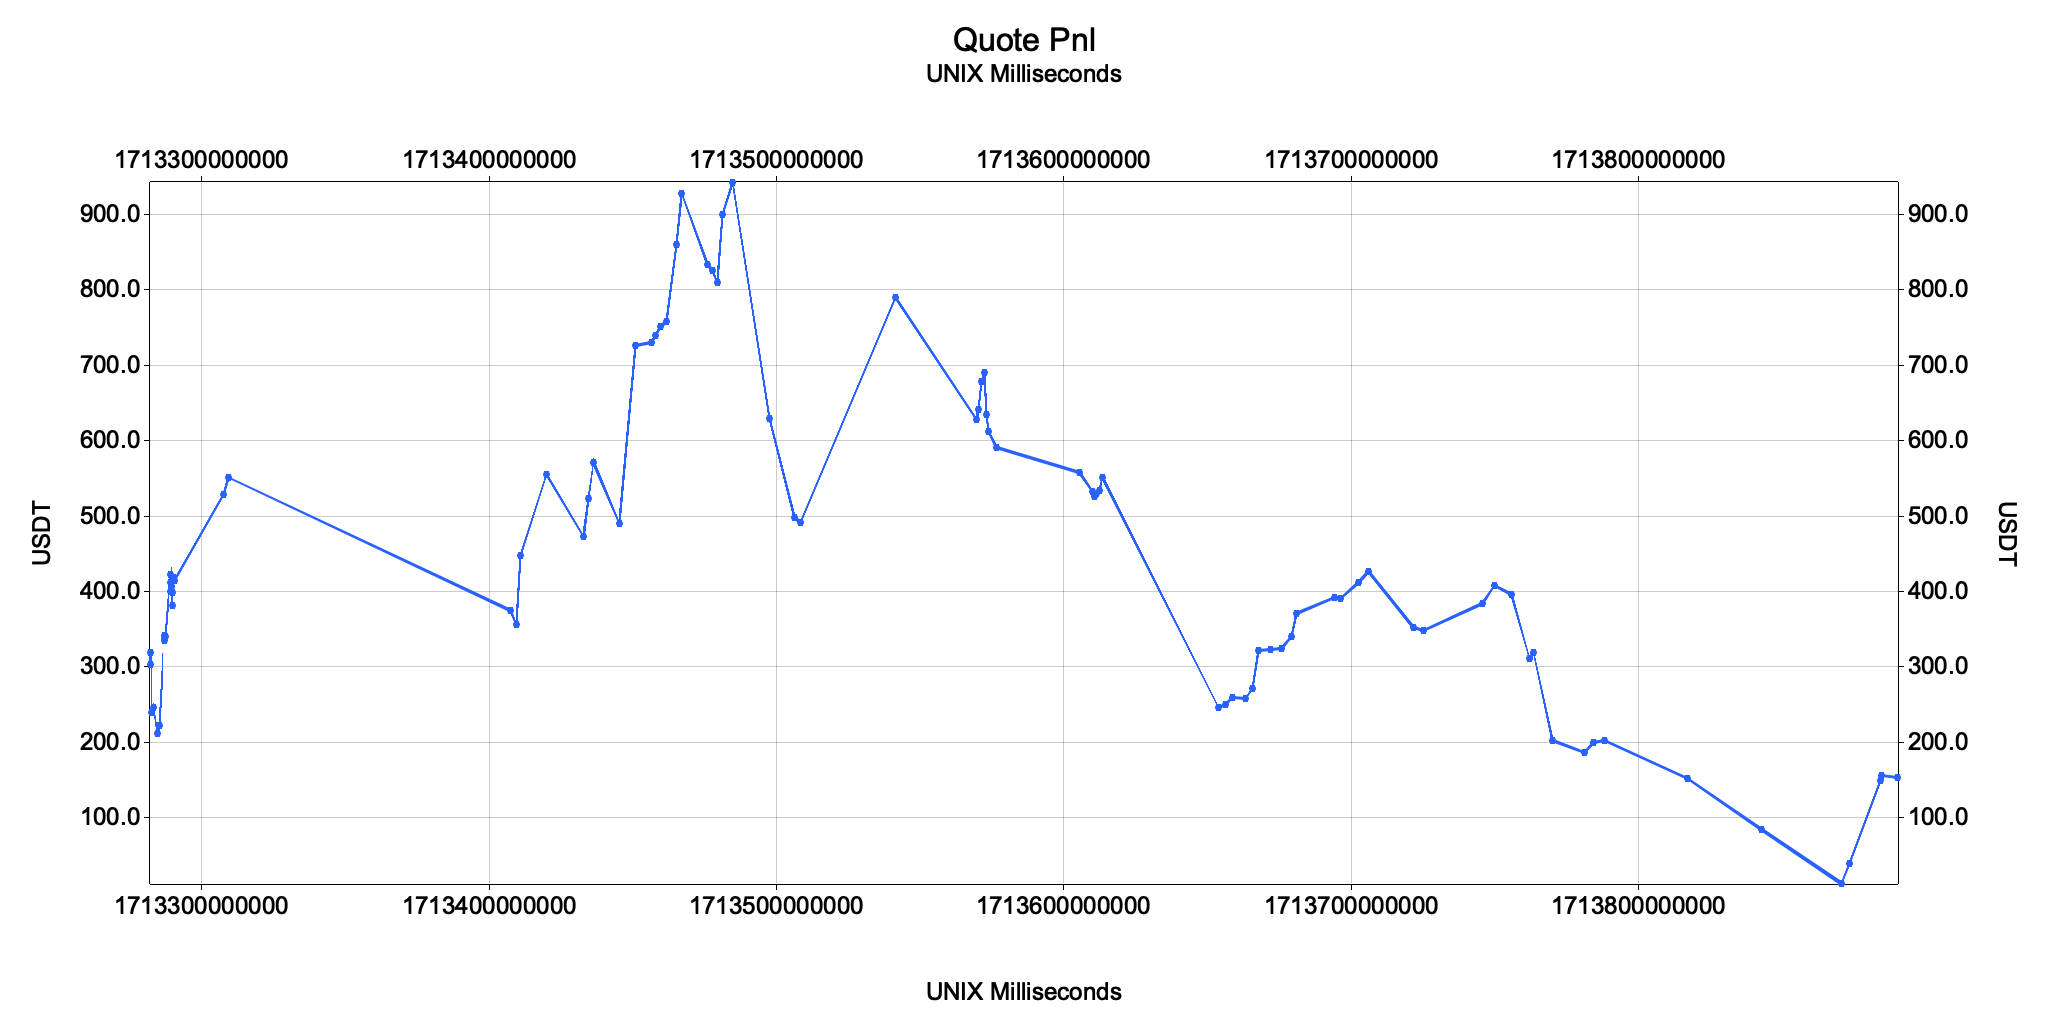
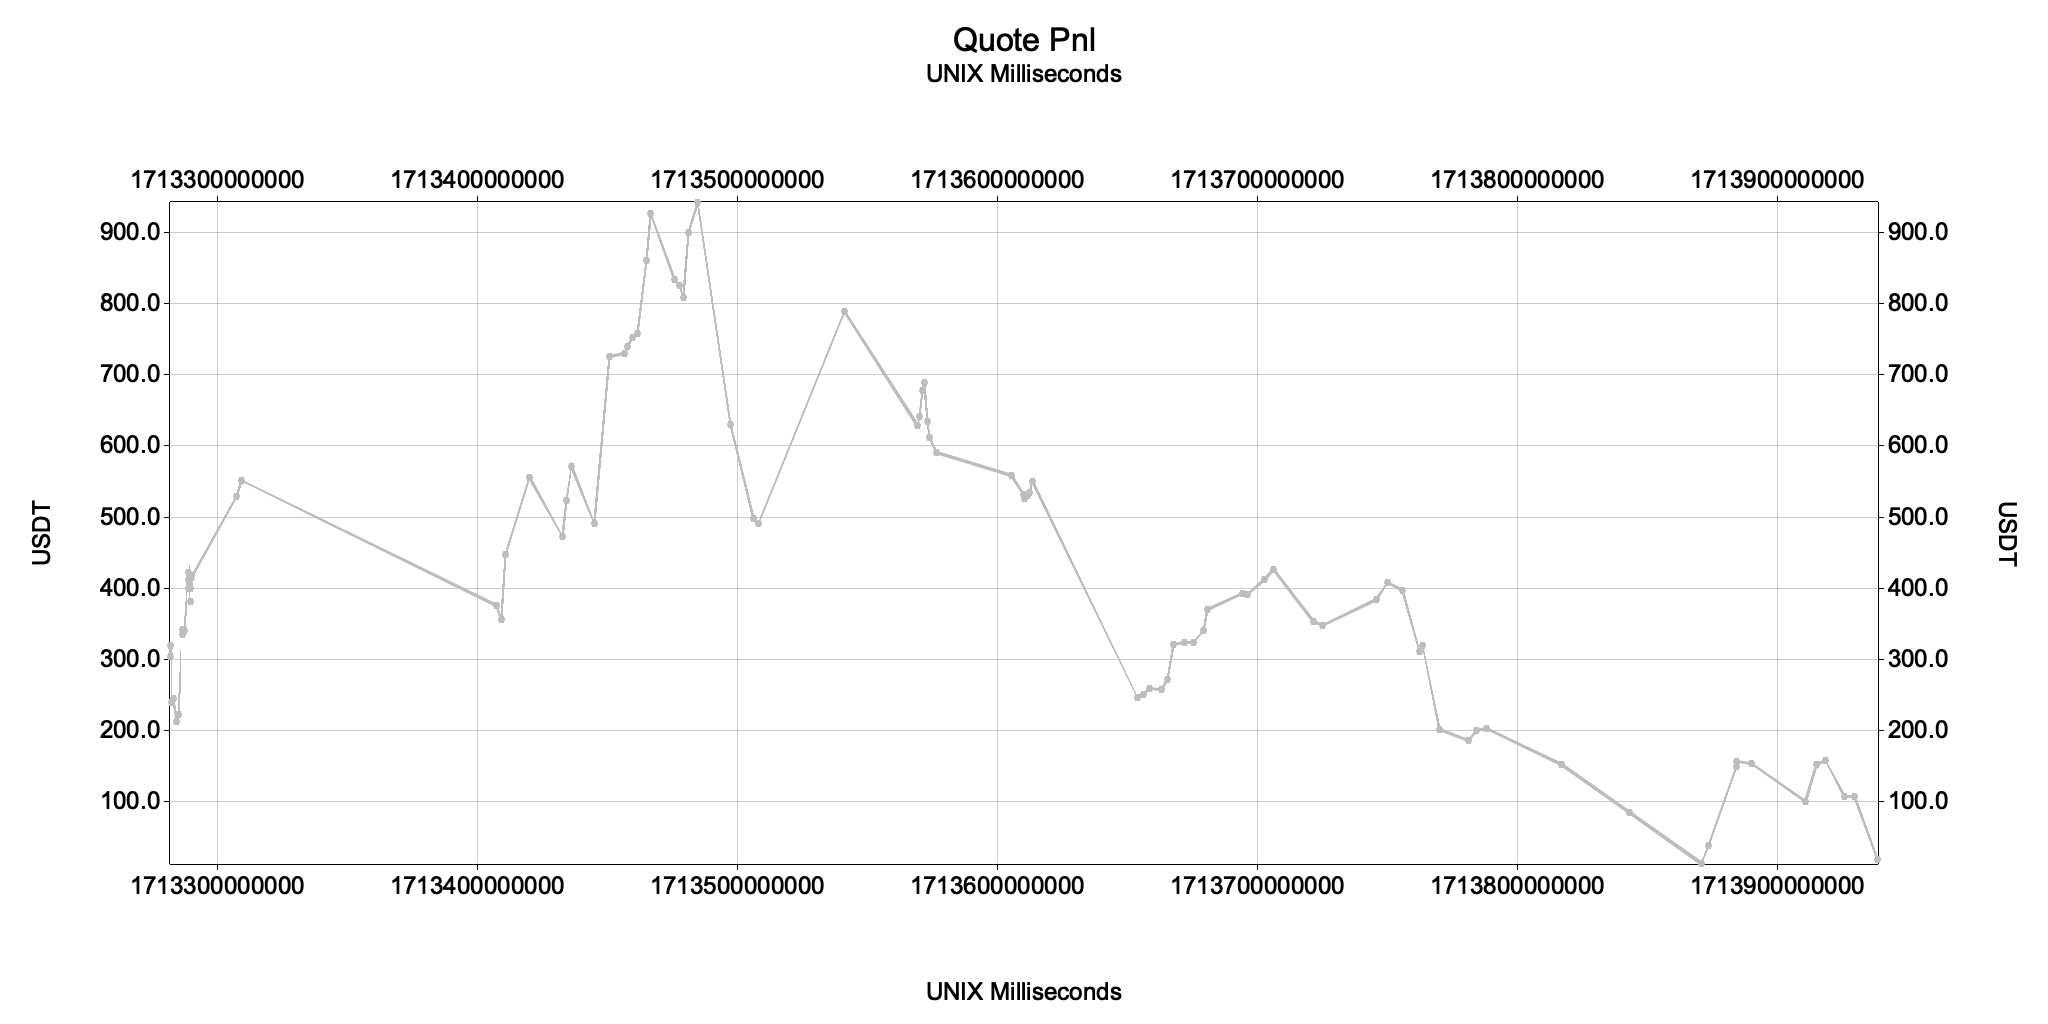
backteset

diff --git a/dreamrunner/src/backtest.rs b/dreamrunner/src/backtest.rs
@@ -192,9 +192,8 @@ impl Backtest {
           let factor = 1.0;
 
           let pct_pnl = ((exit - entry) / entry * factor) * 100.0;
-          let quote_pnl = pct_pnl / 100.0 * capital;
-          let fee = self.fee / 100.0;
-          let quote_pnl = quote_pnl - (quote_pnl * fee);
+          let mut quote_pnl = pct_pnl / 100.0 * capital;
+          quote_pnl -= quote_pnl.abs() * self.fee / 100.0;
 
           quote += quote_pnl;
 
@@ -212,7 +211,8 @@ impl Backtest {
           let factor = -1.0;
 
           let pct_pnl = ((exit - entry) / entry * factor) * 100.0;
-          let quote_pnl = pct_pnl / 100.0 * capital;
+          let mut quote_pnl = pct_pnl / 100.0 * capital;
+          quote_pnl -= quote_pnl.abs() * self.fee / 100.0;
 
           quote += quote_pnl;
 
@@ -272,9 +272,8 @@ impl Backtest {
         Order::Short => -1.0,
       };
       let pct_pnl = ((exit.get().price - entry.get().price) / entry.get().price * factor) * 100.0;
-      let quote_pnl = pct_pnl / 100.0 * capital;
-      let fee = self.fee / 100.0;
-      let quote_pnl = quote_pnl - (quote_pnl * fee);
+      let mut quote_pnl = pct_pnl / 100.0 * capital;
+      quote_pnl -= quote_pnl.abs() * self.fee / 100.0;
 
       let quantity = capital / entry.get().price;
       let updated_entry = Trade {
@@ -403,7 +402,8 @@ impl Backtest {
     let last = candles.last().unwrap();
 
     let pct_pnl = ((last.close - first.close) / first.close) * 100.0;
-    let quote_pnl = pct_pnl / 100.0 * start_capital;
+    let mut quote_pnl = pct_pnl / 100.0 * start_capital;
+    quote_pnl -= quote_pnl.abs() * self.fee / 100.0;
 
     Ok(vec![
       Data {
